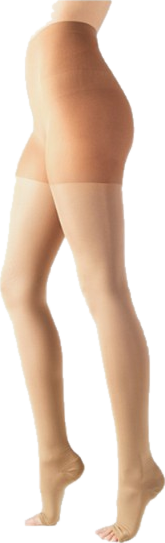
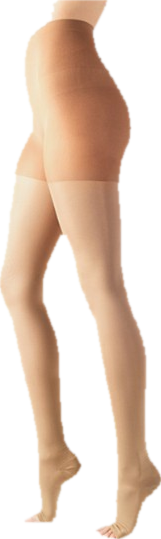
Destaque: recortes sem orla, produto mais pequeno, sem etiqueta sobreposta
Claude-Session: https://claude.ai/code/session_017BWJgvb3s4oxXD6hg3roJt

diff --git a/web/lib/heroScan.ts b/web/lib/heroScan.ts
@@ -26,7 +26,10 @@ function cutout(src: CanvasImageSource, sw: number, sh: number, max = 900): HTML
       if (x > 0) st.push(i - 1); if (x < W - 1) st.push(i + 1); if (i >= W) st.push(i - W); if (i < N - W) st.push(i + W); }
     // suavizar a borda (1 px) e apagar o fundo
     for (let i = 0; i < N; i++) if (bg[i]) d[i * 4 + 3] = 0;
-    for (let i = W; i < N - W; i++) if (!bg[i] && (bg[i - 1] || bg[i + 1] || bg[i - W] || bg[i + W])) d[i * 4 + 3] = 150;
+    // tirar a orla clara (2 px) que fica do fundo
+    for (let pass = 0; pass < 2; pass++) { const edge: number[] = [];
+      for (let i = W; i < N - W; i++) if (!bg[i] && (bg[i - 1] || bg[i + 1] || bg[i - W] || bg[i + W])) edge.push(i);
+      for (const i of edge) { bg[i] = 1; d[i * 4 + 3] = 0; } }
     g.putImageData(img, 0, 0);
   }
   // cortar à volta do produto
@@ -144,8 +147,8 @@ export function startHeroScan(stage: HTMLElement, images: { soca?: string; meia?
     const t = reduce ? ASM + REV + 1 : Math.max(0, (now - t0 - paused) / 1000);
     const total = items.length, k = Math.floor(t / STEP), lt = t - k * STEP;
     const cur = items[k % total], prev = items[(k + total - 1) % total];
-    const scale = Math.min((W * 0.72) / BOX, (H * 0.7) / BOX);       // px por unidade
-    const ox = W / 2, oy = H * 0.46;
+    const scale = Math.min((W * 0.6) / BOX, (H * 0.64) / BOX);       // px por unidade
+    const ox = W / 2, oy = H * 0.47;
     // fases
     const m = lt < ASM ? ease(lt / ASM) : 1;                            // pontos: do produto anterior para este
     const rev = lt < ASM ? 0 : lt < ASM + REV ? (lt - ASM) / REV : 1;  // varrimento a revelar a foto

diff --git a/web/app/brand.css b/web/app/brand.css
@@ -67,6 +67,7 @@ h3 { font-size: 1rem; }
 .h4-mini img { width: 84%; height: 84%; object-fit: contain; mix-blend-mode: multiply; }
 .h4-mini.m1 { right: 22px; bottom: 26px; transform: rotate(4deg); }
 .h4-mini.m2 { right: 152px; bottom: 6px; width: 92px; height: 92px; border-radius: 22px; transform: rotate(-5deg); }
+.h4-art .h4-chip.c1 { display: none; }
 .h4-chip { position: absolute; display: inline-flex; align-items: center; gap: 7px; padding: 9px 14px; border-radius: 999px; background: #fff; box-shadow: var(--sh-2); font-size: .8rem; font-weight: 650; color: var(--navy); }
 .h4-chip svg { color: var(--mint-d); }
 .h4-chip.c1 { left: 0; bottom: 64px; animation: floaty 6s ease-in-out infinite; }
